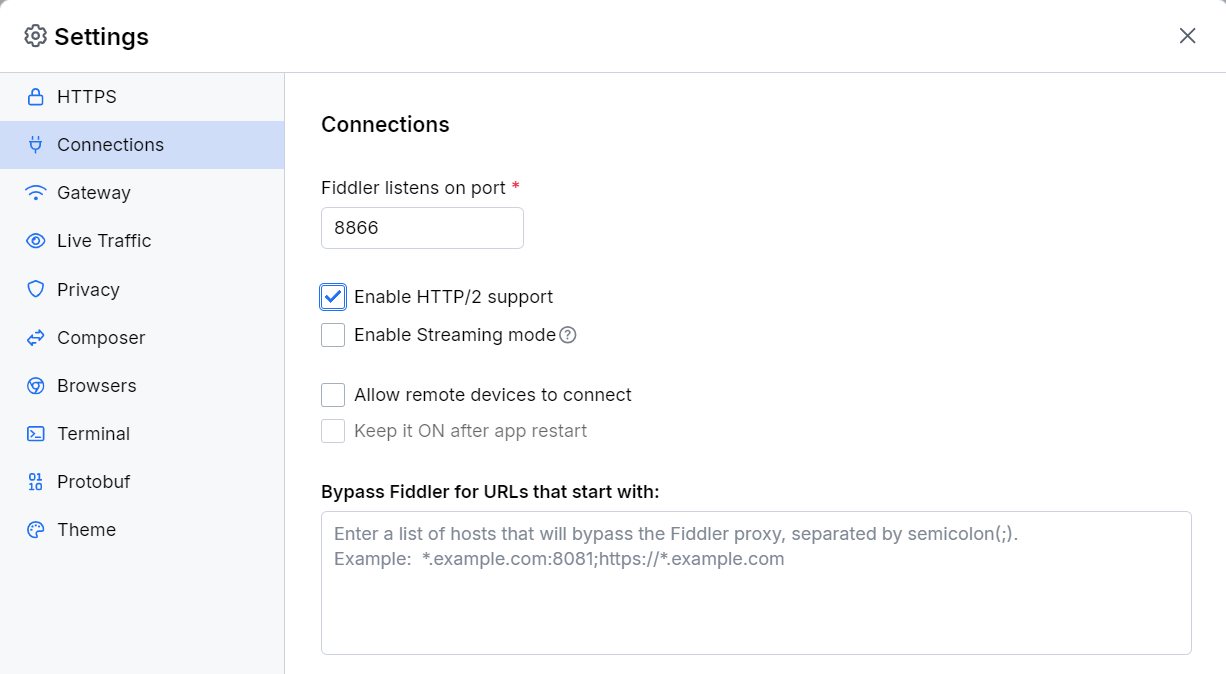
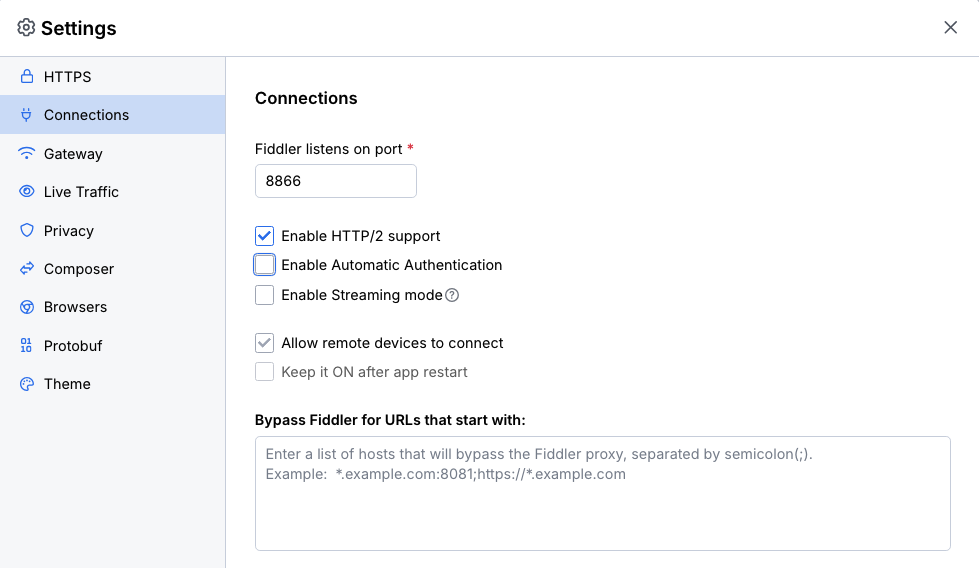
docs: proxy auth setting

diff --git a/user-guide/settings/connections.md b/user-guide/settings/connections.md
@@ -17,6 +17,8 @@ The **Connections** menu exposes options allowing granular control over proxy se
 
     >tip [Learn more about the HTTP/2 support in Fiddler Everywhere here...]({%slug capture-traffic-get-started%}#http-version-specifics)
 
+- **Enable Automatic Authentication**&mdash; Enables or disables the automatic proxy authentication for protocols like Kerberos, Negotiate, and NTLM. With the option enabled, the Fiddler application tries to automatically obtain the proxy credentials as stored in the operating system credential management tool.
+
 - **Enable Streaming Mode**&mdash;With **Streaming mode** enabled, the response is immediately returned to the client as they are downloaded. Modifying the Response body (through the **Rules**) is possible only when **Streaming mode** is disabled.
 
 - **Allow remote devices to connect**&mdash;Controls whether inbound connections to Fiddler Everywhere are allowed. Enable this option to capture traffic from remote devices. Behind the scenes, the option opens (or closes) the Fiddler Everywhere port for inbound connections on the host machine.
